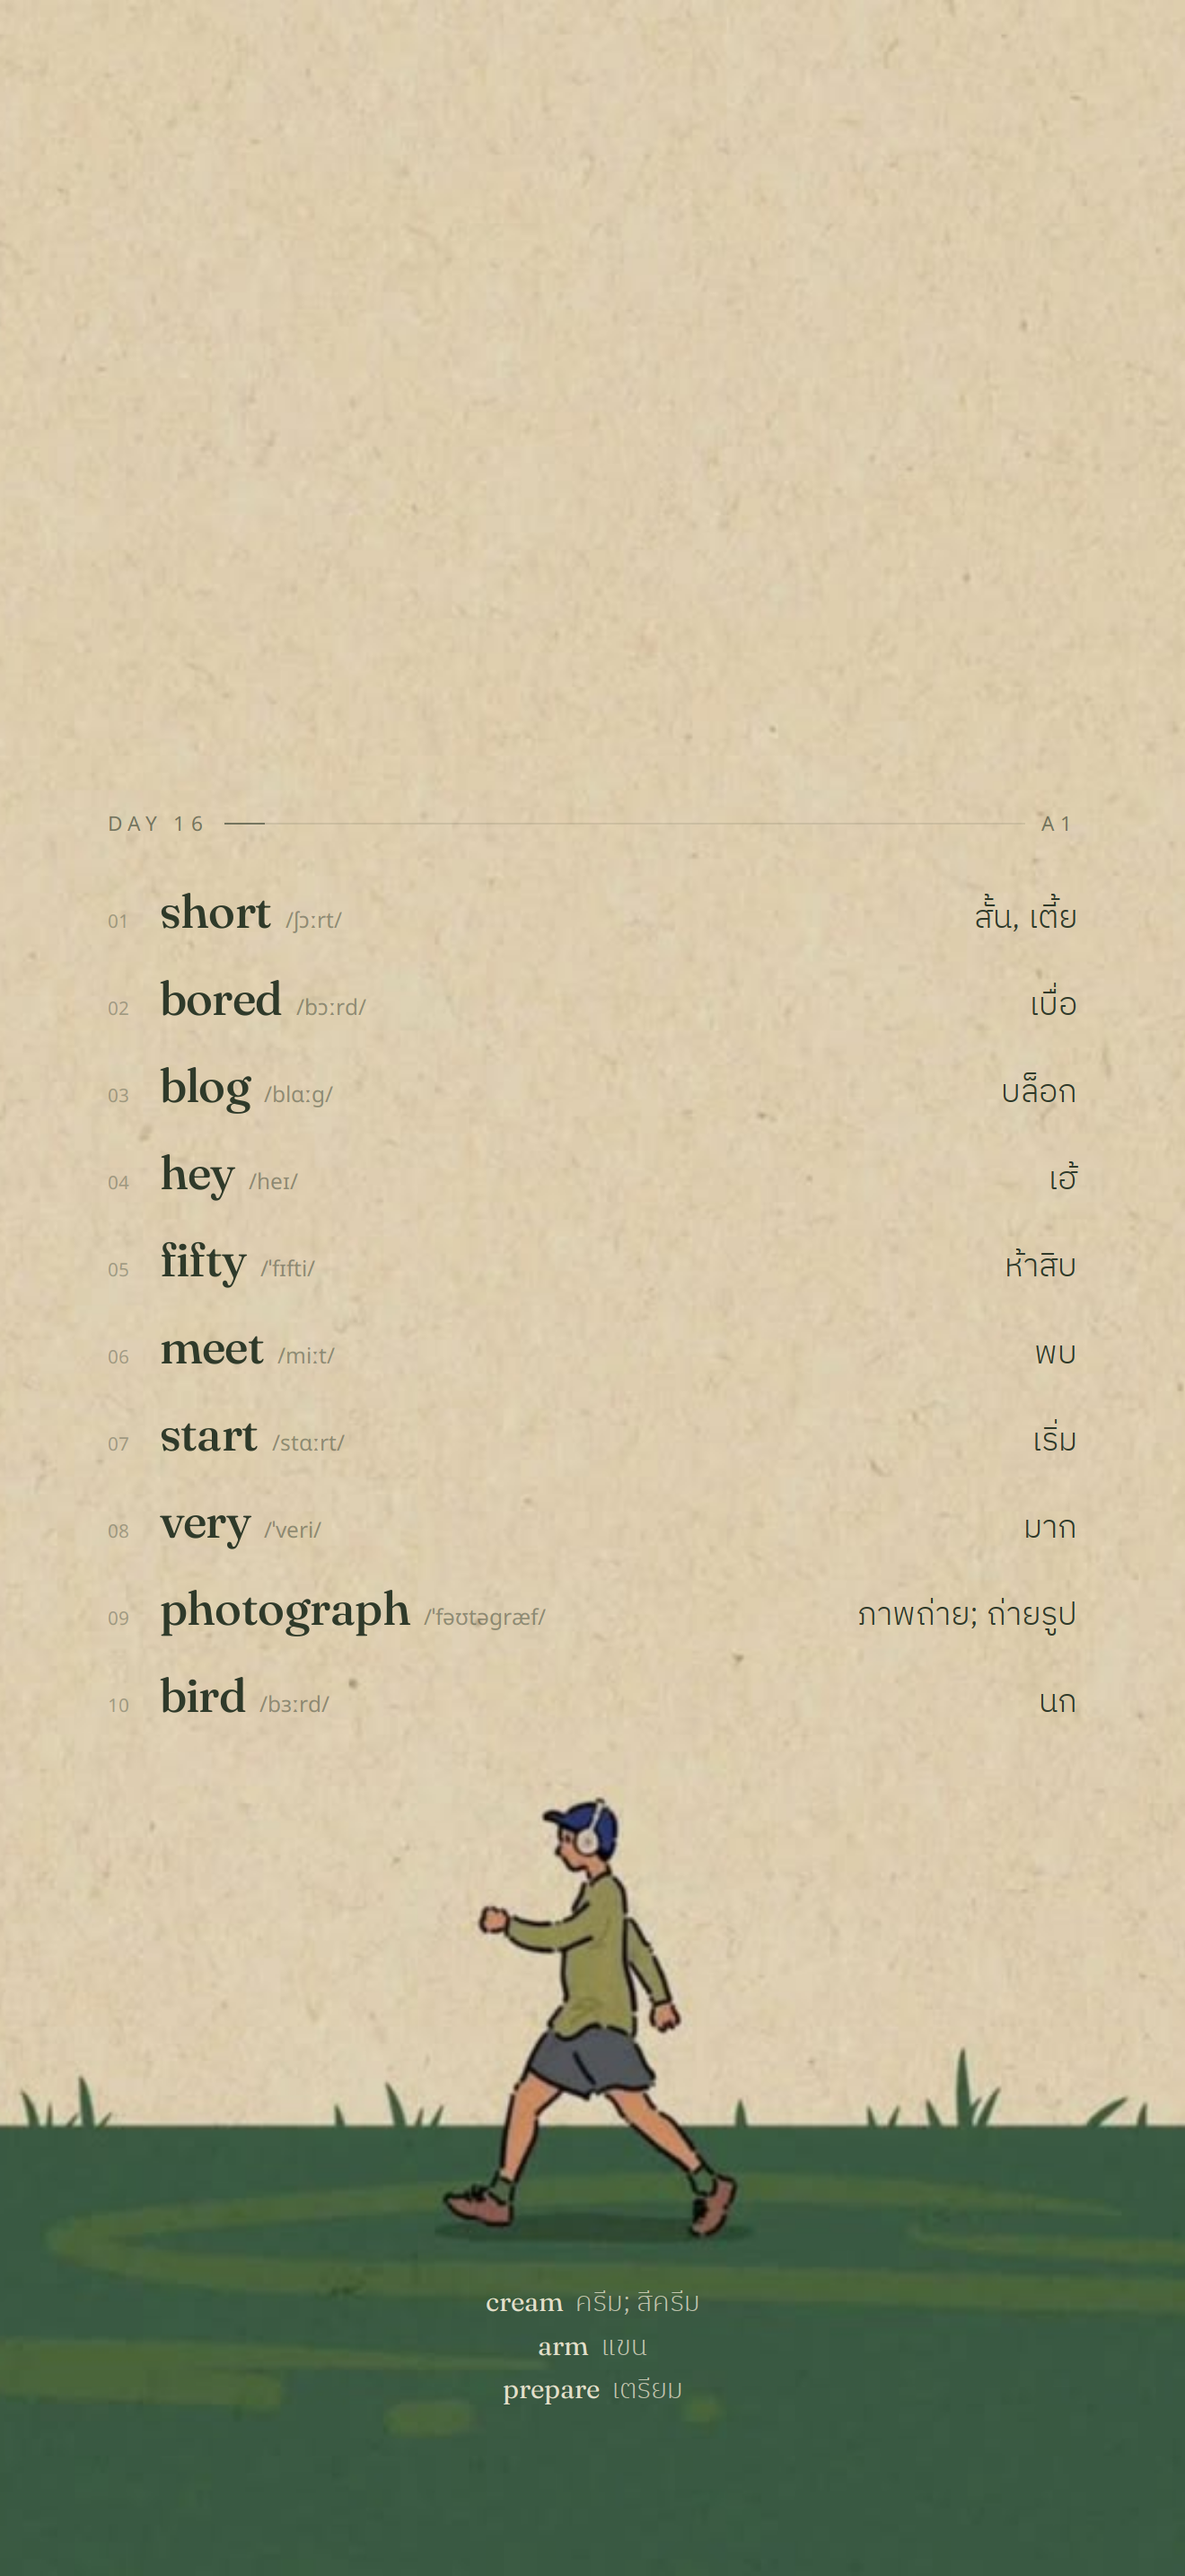
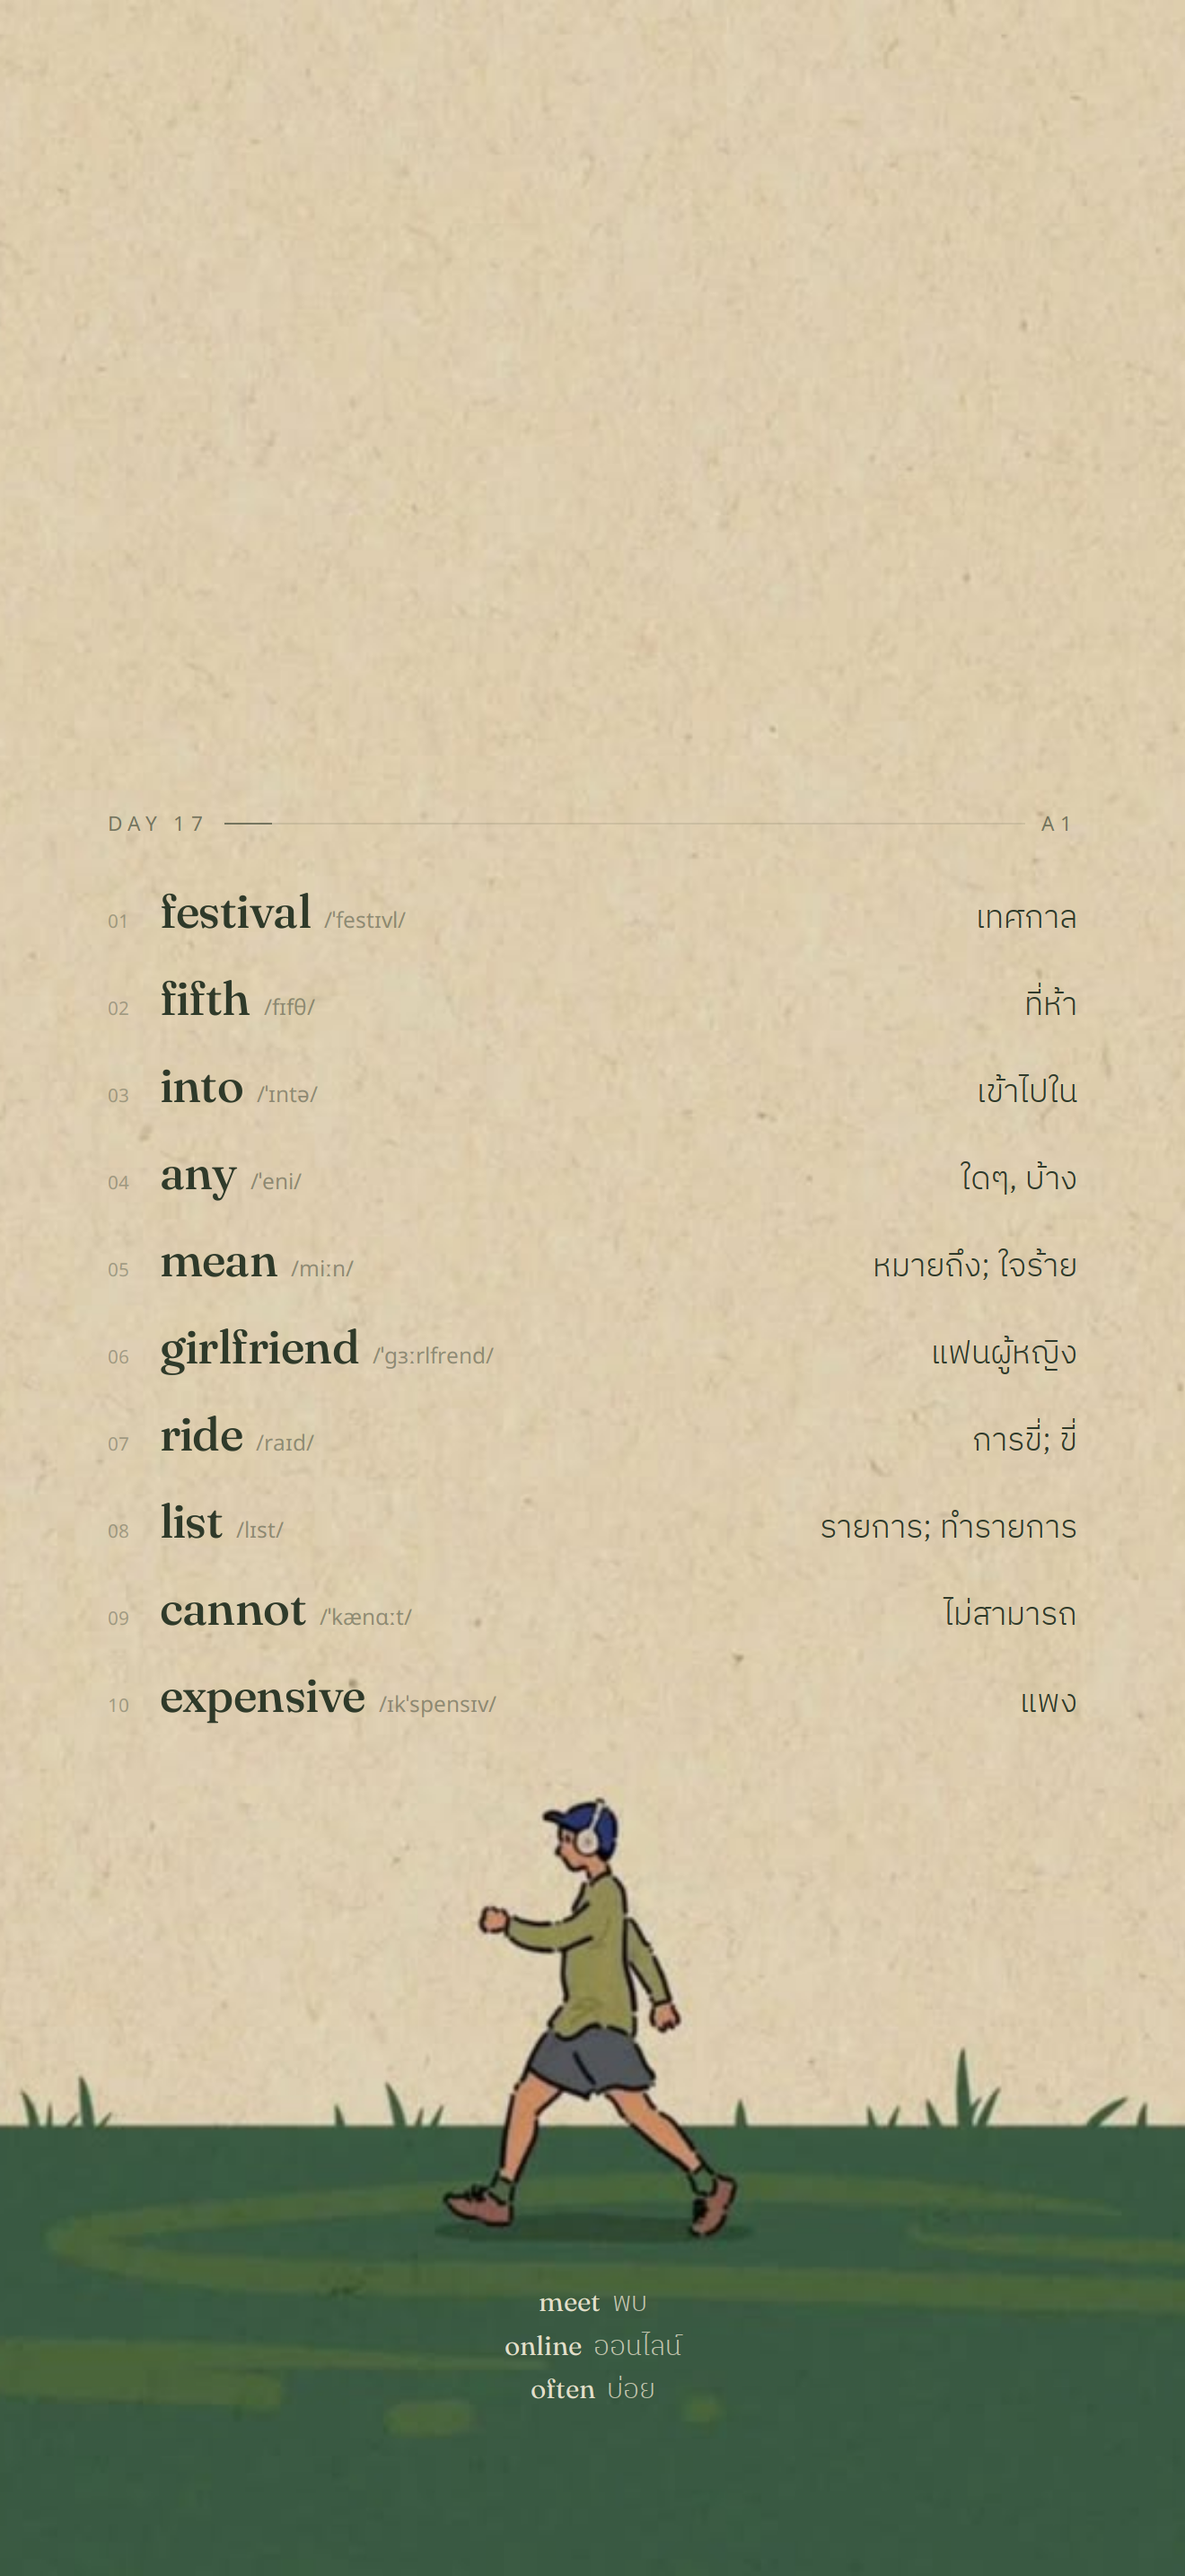
wallpaper: Day 17/298

diff --git a/docs/index.html b/docs/index.html
@@ -1,5 +1,5 @@
 <!DOCTYPE html><html lang="th"><head><meta charset="utf-8">
-<meta name="viewport" content="width=device-width,initial-scale=1"><title>Day 16 vocab wallpaper</title>
+<meta name="viewport" content="width=device-width,initial-scale=1"><title>Day 17 vocab wallpaper</title>
 <style>body{font-family:system-ui;background:#111;color:#eee;text-align:center;margin:24px}img{width:min(45vw,330px);border-radius:28px;margin:8px}</style></head>
-<body><h1>Day 16 / 298</h1><p>อัปเดต 2026-11-12T01:56:23.751Z</p>
-<a href="today.png"><img src="today.png?v=16" alt="today"></a><a href="quiz.png"><img src="quiz.png?v=16" alt="quiz"></a></body></html>
+<body><h1>Day 17 / 298</h1><p>อัปเดต 2026-11-12T22:44:27.833Z</p>
+<a href="today.png"><img src="today.png?v=17" alt="today"></a><a href="quiz.png"><img src="quiz.png?v=17" alt="quiz"></a></body></html>
